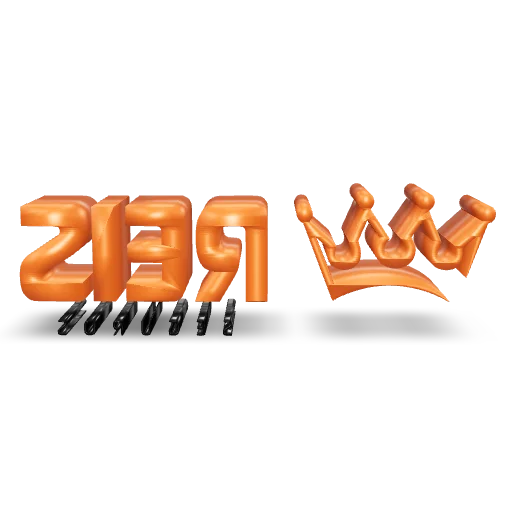
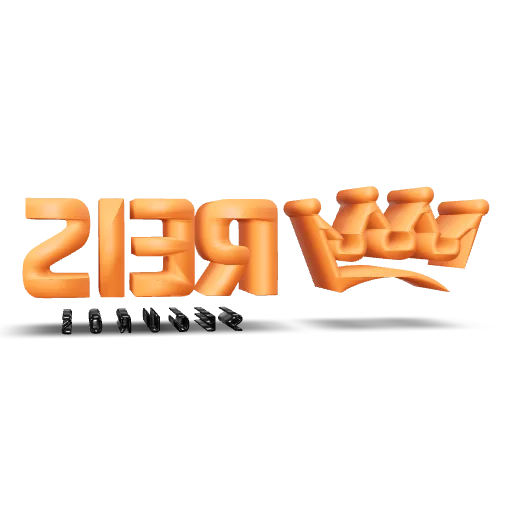
Add files via upload

Changed region(s): [[0.0312, 0.3438, 0.9688, 0.6875]]

diff --git a/index.html b/index.html
@@ -11,7 +11,7 @@
   </head>
   <body>
     <!-- <model-viewer> HTML element -->
-    <model-viewer src="REIS_3d.glb" ar ar-modes="webxr scene-viewer quick-look" camera-controls poster="poster.webp" shadow-intensity="1.34" shadow-softness="1" environment-image="legacy" auto-rotate camera-orbit="358.6deg 80.42deg 4.097m" field-of-view="30deg">
+    <model-viewer src="REIS_3d.glb" ar ar-modes="scene-viewer webxr quick-look" camera-controls poster="poster.webp" shadow-intensity="2" environment-image="legacy" auto-rotate camera-orbit="6.402deg 88.3deg 4.097m" field-of-view="30deg">
       <div class="progress-bar hide" slot="progress-bar">
           <div class="update-bar"></div>
       </div>
